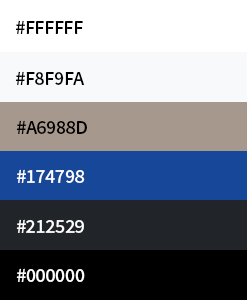
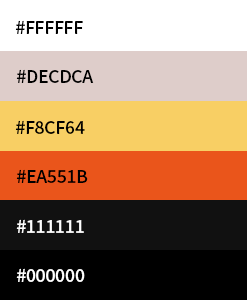
프로젝트 수정

diff --git a/pf4/index.html b/pf4/index.html
@@ -93,14 +93,14 @@
         <li class="grayTxt">CHALLENGE</li>
         <li class="title">Project Goals</li>
         <li class="lightTxt">
-          효성중공업이 가진 볼드한 이미지를 바탕으로 고유 분야인 중장비와 건설
-          분야의 전문성이 돋보일 수 있도록 리디자인하고자 했습니다.
+          정식품은 식품 전문기업으로 '국민 건강을 위해 더 나은 제품을
+          개발한다'는 철학을 가지고 있습니다. 창립자의 브랜드 스토리와 제품
+          소개를 통해 기업의 가치를 전달하는 것에 초점을 두어 리디자인했습니다.
 
           <span class="block"
-            >라인과 여백을 사용해 심플하면서도 사진과의 배치를 조화롭게
-            구성했으며, 반응형 웹페이지로 어느 화면에서든 편하게 접근할 수
-            있도록 했습니다.</span
-          >
+            >모바일 전용 웹페이지로 제작했으며, 사진과 글의 크기를 조화롭게
+            배치해 사용자가 보기 편하도록 레이아웃을 배치해보았습니다.
+          </span>
         </li>
       </ul>
       <ul
@@ -118,8 +118,8 @@
               </li>
               <li class="smallTxt">Color palette</li>
               <li class="lightTxt">
-                효성중공업의 기업 브랜드 메인 컬러와 중공업의 무겁고 안정적인
-                느낌을 주기 위해 Brown과 Gray 계열 색상을 사용하였습니다.
+                정식품이 가진 건강과 정직함의 이미지를 살리기 위해 Red 계열의
+                색상을 사용했습니다.
               </li>
             </ul>
             <ul class="font">
@@ -144,14 +144,12 @@
         <li class="grayTxt">DEVELOPMENT</li>
         <li class="title">Tech Stack</li>
         <li class="lightTxt">
-          • 미디어 쿼리와 가변 단위 값을 이용한 사용자별 환경, 디바이스 제약
-          해결
+          • Styled Components로 React 컴포넌트 스타일하기
         </li>
+        <li class="lightTxt">• useState 활용해 토글 버튼 구현</li>
         <li class="lightTxt">
-          • PC에서의 사용자 접근성을 높이기 위해 일부 요소에 cursor: pointer
-          적용
+          •리액트 keyframes로 메인 이미지 애니메이션 구현
         </li>
-        <li class="lightTxt">• 카카오맵 API를 이용한 지도 구현</li>
       </ul>
       <ul id="solution">
         <li
@@ -168,55 +166,32 @@
         >
           Problems & Solution
         </li>
+
         <li
           class="highlight"
           data-aos="fade-up"
           data-aos-anchor-placement="center-bottom"
         >
-          다사다난했던 ScrollY와의 첫만남
+          스크롤을 없애고 싶은데...
         </li>
         <li
           class="lightTxt"
           data-aos="fade-up"
           data-aos-anchor-placement="center-bottom"
         >
-          스크롤 위치에 따라 헤더 영역의 height와 컬러를 변경하고자 했으나,
-          지정한 높이 값에 이르면 버벅거리는 현상이 발생했습니다.
-          <span class="block"
-            >초기에 scrollY이 100을 넘어가면 헤더 영역을 80px에서 60px로
-            줄이도록 설정했는데, 동시에 scrollY의 값도 그만큼 줄어들어
-            버벅거리는 구간이 발생했던 것입니다.</span
-          >
+          이번 프로젝트는 모바일 전용 페이지로, 가로 414px에 맞춰 제작했습니다.
+          핸드폰 목업 프레임을 고정시키고 스크롤하면 가려진 부분들이 올라와 실제
+          핸드폰에서 보는 것처럼 구현하고자 했습니다.
           <span class="block">
-            <span class="underLine"
-              >if조건값을 scorllY > h1.offsetHeight로 수정해 스크롤마다 변경되는
-              값이 아닌 고정값을 적용</span
-            >해 문제를 해결했습니다.</span
-          >
-        </li>
-        <li
-          class="highlight"
-          data-aos="fade-up"
-          data-aos-anchor-placement="center-bottom"
-        >
-          카카오맵 API가 갑자기 안된다?
-        </li>
-        <li
-          class="lightTxt"
-          data-aos="fade-up"
-          data-aos-anchor-placement="center-bottom"
-        >
-          카카오맵 API를 사용하기 위해 코딩을 진행하고, 라이브서버로 오픈하고는
-          왜 지도가 안뜨지..?! 고민하다 로컬에서 열어야보였던 것을 기억해 다시
-          열었지만 헛수고였습니다.
+            그런데 목업 프레임에 스크롤이 생겨서 사라지지 않았습니다. css로
+            구현하면 .box::-webkit-scrollbar{display:none;}를 쓰면되는데,
+            리액트에서는 이런 구문이 허용되지 않았습니다.
+          </span>
           <span class="block"
-            >스크립트도 다시 연결해보고, 오타가 있는지 점검해도 문제가 무엇인지
-            알 수 없어 새로 작성해보기도 했습니다.</span
-          >
-          <span class="block"
-            >그러던 중,
+            >리액트에서 ::를 쓸 수 있는 방법을 찾아보고자 검색을 시작했고,
             <span class="underLine"
-              >구글 검색으로 로컬에서 확인할 때는 https://가 필요하다</span
+              >스타일드 컴포넌트로 box를 만든 다음 {}안에 &::를 넣어 사용하면
+              된다</span
             >는 것을 알게 되어 문제를 해결할 수 있었습니다.</span
           >
         </li>
@@ -229,24 +204,27 @@
         <li class="grayTxt">CHALLENGE</li>
         <li class="title">Review</li>
         <li class="lightTxt">
-          처음으로 헤더부터 푸터까지 온전히 코딩 작업을 진행한 사이트입니다.
-          가독성 좋은 클린 코드를 구현할 수 있을거라 생각했지만 크나큰
-          착각이었습니다.
+          전체 페이지를 리액트로 구성해보았습니다. 코딩을 하면서 절실히 CSS를
+          쓰고 싶은 순간이 있었으나 리액트로만 해보자는 생각으로 작업했습니다.
+          hover나 toggle버튼처럼 css나 자바스크립트로 쉽게 구현되는 것들도
+          리액트에서는 어렵기만 했습니다.
           <span class="block"
-            >사이트를 만들며 더 쉽게 코드를 짤 수 있지 않을까 고민하는 시간도
-            길어지고, 제가 만든 코드보다 세련된 혹은 간편한 CSS,
-            자바스크립트들이 너무나도 많다는 것을 깨달았습니다.
+            >막막함을 해결하기 위해 수업 이후 2~3시간 정도 유튜브를 보며
+            리액트에 대한 기초를 좀 더 탄탄하게 다지고자 노력했습니다. 학원에서
+            배우지 못했던 useState, useEffect와 같은 hook에 대해서도 공부할 수
+            있었습니다.
           </span>
           <span class="block"
-            >swipe_js 등 많은 기능을 배우고 익히다보니 부족한 부분들이 눈에 밟혀
-            이 홈페이지를 어디에 내놓을 수 있을까하는 부끄러운 마음도 들기도
-            했습니다.
+            >hook을 사용해보니 기존 값과 변경 값을 짧은 코드로 개발을 할 수
+            있다는 점이 새로웠습니다. 특히 흥미로웠던 점은 const a ? b || c 로
+            간단히 false, true값을 설정할 수 있다는 것이었습니다.
           </span>
           <span class="block"
-            >그럼에도 이번 프로젝트를 통해 반응형 웹의 구조를 고민할 수 있었고,
-            JavaScript 등으로 동적인 움직임을 구현해본 좋은 밑거름이 된
-            시간이었습니다.</span
-          >
+            >아직 hover 구현과 컴포넌트 구성 등 부족한 부분이 있어 계속
+            공부해나갈 예정입니다. 이번 프로젝트를 통해 터미널, npm, build 등
+            웹의 기초를 경험해보며, 웹에 대해 더욱 흥미를 가지게 된
+            시간이었습니다.
+          </span>
         </li>
       </ul>
       <ul id="viewMore">

diff --git a/pf3/index.html b/pf3/index.html
@@ -275,7 +275,7 @@
           <a
             href="https://drive.google.com/file/d/1FQmcG-eRqYR-MuxK8Q4_yVr64RKtlTNG/view?usp=sharing"
             target="_blank"
-            >상세 페이지 PDF로 보기</a
+            >상세 페이지 보기</a
           >
         </li>
         <li>
@@ -291,10 +291,10 @@
       <h2>사이트 이동</h2>
       <ul id="project">
         <li>
-          <a href="https://zeroall-h.github.io/portfolio/pf1/">PROJECT1</a>
+          <a href="https://zeroall-h.github.io/portfolio/pf2/">PROJECT2</a>
         </li>
         <li>
-          <a href="https://zeroall-h.github.io/portfolio/pf2/">PROJECT2</a>
+          <a href="https://zeroall-h.github.io/portfolio/pf4/">PROJECT4</a>
         </li>
       </ul>
     </article>

diff --git a/pf3/css/pf3.css b/pf3/css/pf3.css
@@ -151,6 +151,7 @@ header #gnb a:hover {
   width: 100%;
   height: 100%;
   display: flex;
+  position: relative;
 }
 #moveTosite #project li {
   width: 100%;
@@ -159,10 +160,10 @@ header #gnb a:hover {
   transition: 0.5s;
 }
 #moveTosite #project li:nth-child(1) {
-  background-image: url(../images/project1.jpg);
+  background-image: url(../images/project2.jpg);
 }
 #moveTosite #project li:nth-child(2) {
-  background-image: url(../images/project2.jpg);
+  background-image: url(../images/project4.png);
 }
 #moveTosite #project a {
   display: block;

diff --git a/pf4/css/pf4.css b/pf4/css/pf4.css
@@ -235,10 +235,10 @@ header #gnb a:hover {
   transition: 0.5s;
 }
 #moveTosite #project li:nth-child(1) {
-  background-image: url(../images/project1.jpg);
+  background-image: url(../images/project3.png);
 }
 #moveTosite #project li:nth-child(2) {
-  background-image: url(../images/project_prev.png);
+  background-image: url(../images/project1.jpg);
 }
 #moveTosite #project a {
   display: block;
